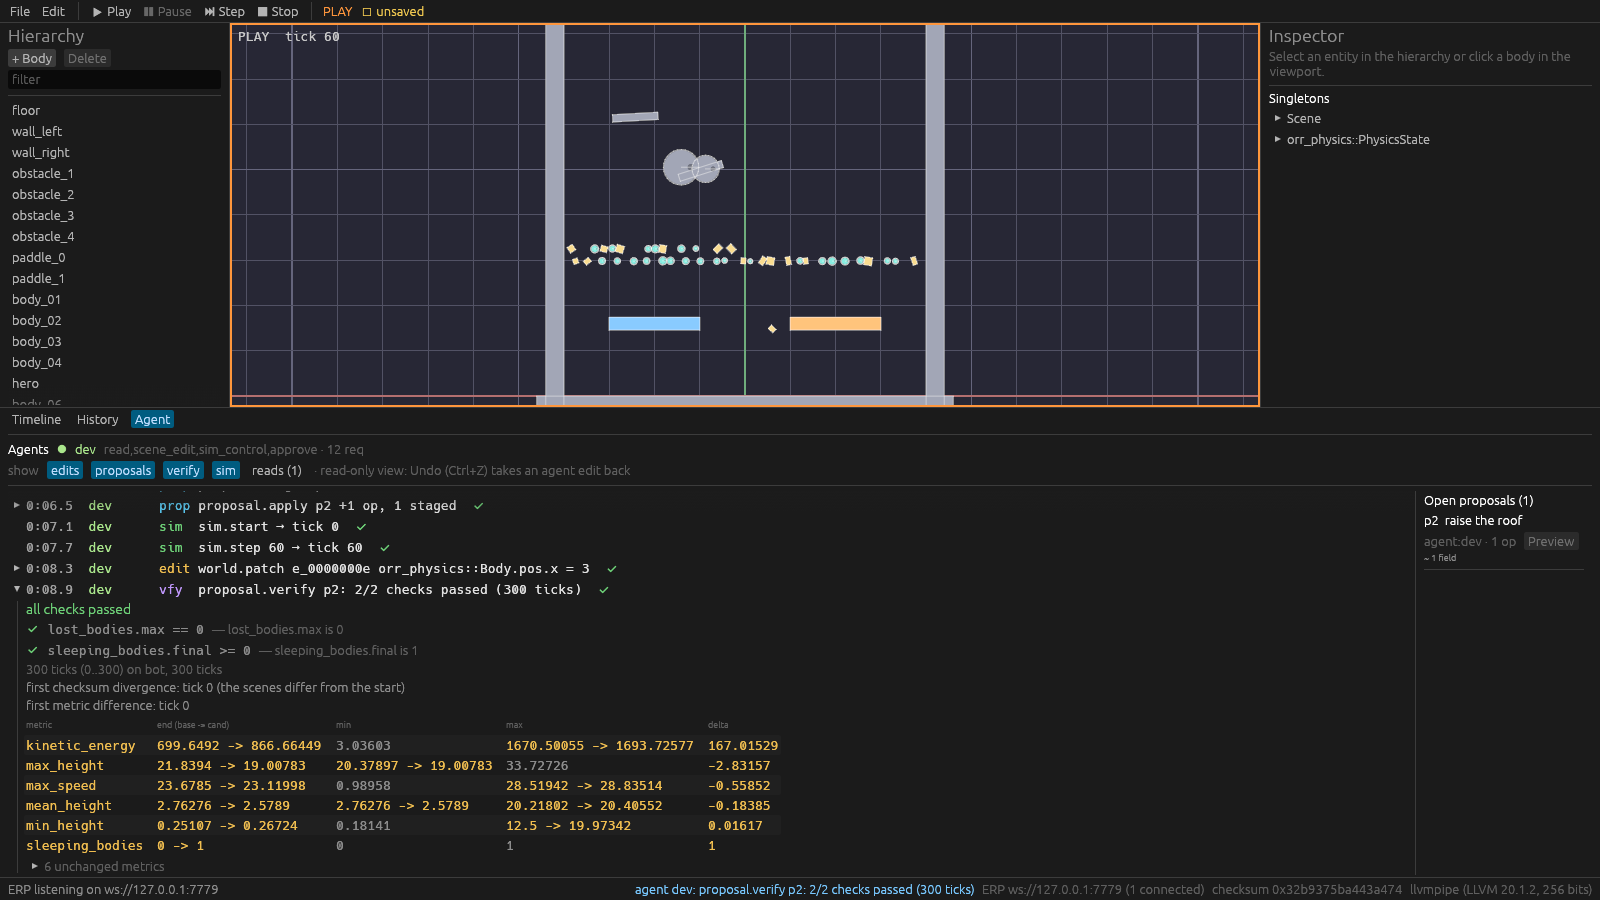
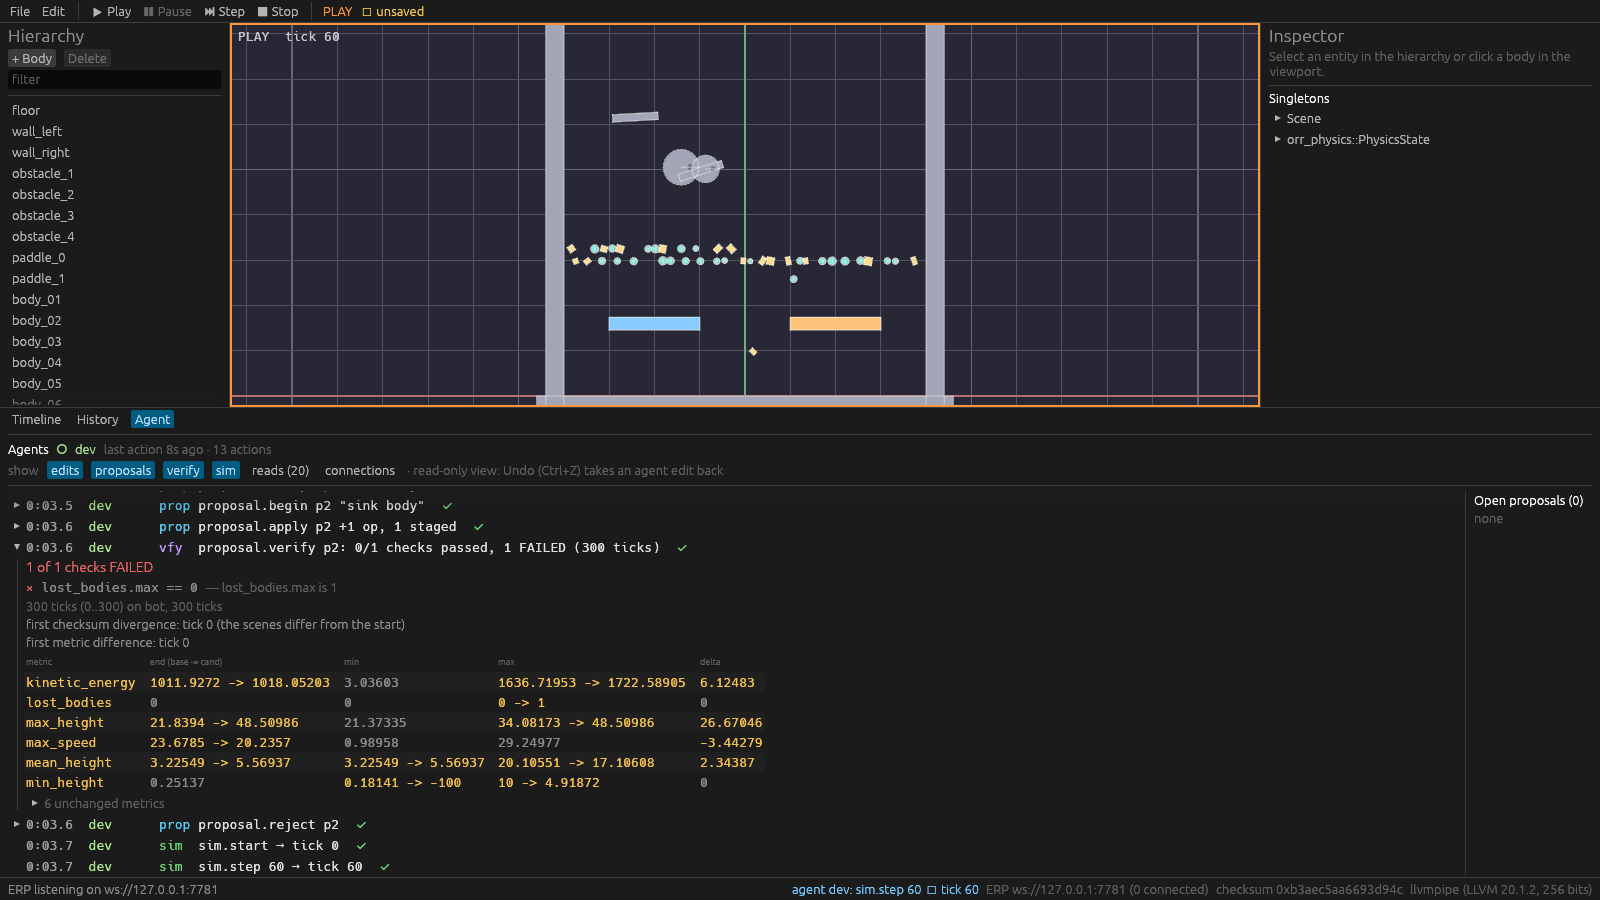
Agent feed fixes from a live CLI session; orr sim step auto-starts
Found by driving the real editor window with the `orr` CLI on Xvfb:
- A CLI agent connects once per command, so the feed filled with
  connect/disconnect rows and the header said "no agent connected"
  between commands. Connection rows are now hidden by default (a
  "connections" toggle shows them; errors always show), and the header
  also names agents with recent actions ("last action 8s ago").
- The failed-row mark and the status bar arrow were glyphs the UI font
  lacks (rendered as boxes); use U+00D7 and "->".
- The header hint gives the CLI line first, then MCP.
- `orr sim step N` starts a paused session when none runs, like the
  editor's Step button.
Tests: CLI-style agent stays visible after disconnecting; step
auto-start. Screenshot docs/img/editor-activity.png refreshed.

Claude-Session: https://claude.ai/code/session_01SrvnJdW1rvxF46axYmMF6F

diff --git a/crates/orr_editor/src/agent_ui.rs b/crates/orr_editor/src/agent_ui.rs
@@ -29,6 +29,8 @@ pub const LBL_PREVIEW: &str = "Preview";
 pub const TXT_PASSED: &str = "all checks passed";
 /// The header when no agent is connected.
 pub const TXT_NO_AGENT: &str = "no agent connected";
+/// How long an agent counts as recently active in the header (ms).
+pub const RECENT_MS: u64 = 60_000;
 /// Rows the feed draws at most (the newest ones); older ones stay in the log.
 pub const MAX_ROWS: usize = 400;
 
@@ -96,7 +98,7 @@ fn row_job(e: &ActivityEntry, font: &egui::FontId) -> LayoutJob {
     add(format!("{:<8} ", e.client), agent_color(&e.client));
     add(format!("{tag} "), color);
     add(e.summary.clone(), if e.ok { if e.read { Color32::GRAY } else { Color32::from_gray(225) } } else { RED });
-    add(if e.ok { "  \u{2714}".to_string() } else { "  \u{2718}".to_string() }, if e.ok { GREEN } else { RED });
+    add(if e.ok { "  \u{2714}".to_string() } else { "  \u{d7}".to_string() }, if e.ok { GREEN } else { RED });
     job
 }
 
@@ -130,13 +132,29 @@ impl EditorApp {
     fn agent_header(&mut self, ui: &mut Ui) {
         let agents = self.editor.agents();
         let erp = self.editor.erp_status();
-        if !agents.is_empty() {
+        // A CLI agent connects once per command: also show who acted lately.
+        let now = self.editor.erp_elapsed_ms().unwrap_or(0);
+        let recent: Vec<_> = self
+            .editor
+            .feed()
+            .recent_agents(now.saturating_sub(RECENT_MS))
+            .into_iter()
+            .filter(|r| !agents.iter().any(|a| a.name == r.name))
+            .collect();
+        if !agents.is_empty() || !recent.is_empty() {
             ui.horizontal_wrapped(|ui| {
                 ui.label(RichText::new("Agents").strong());
                 for a in &agents {
                     dot(ui, agent_color(&a.name), true);
                     ui.label(RichText::new(&a.name).strong().color(agent_color(&a.name)));
                     ui.weak(format!("{} \u{b7} {} req", a.caps, a.requests));
+                    ui.add_space(10.0);
+                }
+                for r in &recent {
+                    dot(ui, agent_color(&r.name), false);
+                    ui.label(RichText::new(&r.name).strong().color(agent_color(&r.name)));
+                    let ago = now.saturating_sub(r.last_ms) / 1000;
+                    ui.weak(format!("last action {ago}s ago \u{b7} {} action{}", r.actions, if r.actions == 1 { "" } else { "s" }));
                     ui.add_space(10.0);
                 }
             });
@@ -158,7 +176,8 @@ impl EditorApp {
         if erp.is_none() {
             mono(ui, "orr_editor --erp 127.0.0.1:7777 --erp-dev".to_string());
         }
-        mono(ui, format!("claude mcp add orrery -- orr_mcp --erp {url}      # or: ORR_ERP_URL={url} orr_mcp"));
+        mono(ui, format!("ORR_ERP={url} orr status        # CLI (see AGENTS.md)"));
+        mono(ui, format!("claude mcp add orrery -- orr_mcp --erp {url}      # or MCP"));
     }
 
     /// The filter toggles.
@@ -172,6 +191,7 @@ impl EditorApp {
             ui.toggle_value(&mut f.verify, "verify");
             ui.toggle_value(&mut f.sim, "sim");
             ui.toggle_value(&mut f.reads, format!("reads ({unseen_reads})"));
+            ui.toggle_value(&mut f.sessions, "connections");
             ui.weak("\u{b7} read-only view: Undo (Ctrl+Z) takes an agent edit back");
         });
     }
@@ -417,7 +437,7 @@ fn report_widget(ui: &mut Ui, report: &VerifyReport, outcome: Option<&CheckOutco
             ui.label(RichText::new(format!("{bad} of {} checks FAILED", outcome.results.len())).color(RED).strong().size(14.0));
         }
         for r in &outcome.results {
-            let (mark, color) = if r.passed { ("\u{2714}", GREEN) } else { ("\u{2718}", RED) };
+            let (mark, color) = if r.passed { ("\u{2714}", GREEN) } else { ("\u{d7}", RED) };
             ui.horizontal_wrapped(|ui| {
                 ui.label(RichText::new(mark).color(color));
                 ui.label(RichText::new(&r.check).monospace());

diff --git a/crates/orr_editor/src/agent.rs b/crates/orr_editor/src/agent.rs
@@ -34,17 +34,20 @@ pub struct FeedFilter {
     pub sim: bool,
     /// Read-only requests (hidden by default).
     pub reads: bool,
+    /// Connect / disconnect / auth events (hidden by default: a CLI agent
+    /// connects once per command).
+    pub sessions: bool,
 }
 
 impl Default for FeedFilter {
     fn default() -> Self {
-        Self { edits: true, proposals: true, verify: true, sim: true, reads: false }
+        Self { edits: true, proposals: true, verify: true, sim: true, reads: false, sessions: false }
     }
 }
 
 impl FeedFilter {
-    /// True if `e` passes. Session events always do, and so do errors (a
-    /// failed read is worth seeing).
+    /// True if `e` passes. Errors always do (a failed read or a refused
+    /// token is worth seeing).
     pub fn shows(&self, e: &ActivityEntry) -> bool {
         match e.kind {
             ActivityKind::Edit => self.edits,
@@ -52,9 +55,20 @@ impl FeedFilter {
             ActivityKind::Verify => self.verify,
             ActivityKind::Sim => self.sim,
             ActivityKind::Read => self.reads || !e.ok,
-            ActivityKind::Session => true,
+            ActivityKind::Session => self.sessions || !e.ok,
         }
     }
+}
+
+/// An agent seen in the feed recently (a CLI agent is connected only while
+/// a command runs, so "connected now" alone would mostly read "nobody").
+#[derive(Clone, Debug, PartialEq, Eq)]
+pub struct RecentAgent {
+    pub name: String,
+    /// Server time of its newest non-read, non-session entry.
+    pub last_ms: u64,
+    /// Its non-read, non-session entries in the feed.
+    pub actions: usize,
 }
 
 /// The activity feed of the window (copied from the ERP server's log).
@@ -73,6 +87,23 @@ pub struct Feed {
 }
 
 impl Feed {
+    /// Agents with actions (not reads or connects) at or after `since_ms`
+    /// server time, newest first.
+    pub fn recent_agents(&self, since_ms: u64) -> Vec<RecentAgent> {
+        let mut out: Vec<RecentAgent> = Vec::new();
+        for e in self.entries.iter().filter(|e| !e.read && e.kind != ActivityKind::Session && e.at_ms >= since_ms) {
+            match out.iter_mut().find(|a| a.name == e.client) {
+                Some(a) => {
+                    a.last_ms = a.last_ms.max(e.at_ms);
+                    a.actions += 1;
+                }
+                None => out.push(RecentAgent { name: e.client.clone(), last_ms: e.at_ms, actions: 1 }),
+            }
+        }
+        out.sort_by(|a, b| b.last_ms.cmp(&a.last_ms).then_with(|| a.name.cmp(&b.name)));
+        out
+    }
+
     /// Adds entries from the server (in `seq` order).
     pub(crate) fn push(&mut self, list: Vec<ActivityEntry>) {
         for e in list {
@@ -81,7 +112,8 @@ impl Feed {
                 self.touched.extend(e.entities.iter().cloned());
             }
             if !e.read && e.kind != ActivityKind::Session {
-                self.last_action = Some(format!("agent {}: {}", e.client, e.summary));
+                // The status bar font has no arrow glyph.
+                self.last_action = Some(format!("agent {}: {}", e.client, e.summary.replace('\u{2192}', "->")));
             }
             if self.entries.len() >= FEED_LIMIT {
                 self.entries.pop_front();

diff --git a/crates/orr_editor/tests/agent_ui.rs b/crates/orr_editor/tests/agent_ui.rs
@@ -320,7 +320,7 @@ fn a_failed_request_is_shown_with_its_error() {
     assert!(bad.is_err());
     open_agent_tab(&mut h);
     assert!(shows(&h, "world.patch e_deadbeef"));
-    assert!(shows(&h, "\u{2718}"));
+    assert!(shows(&h, "\u{d7}"));
     expand(&mut h, "world.patch e_deadbeef");
     assert!(shows(&h, "error: "));
 }
@@ -341,4 +341,31 @@ fn staged_proposals_can_be_previewed_and_nothing_can_approve_them() {
     h.run_steps(2);
     assert!(h.state().editor.previewing().is_some());
     assert!(h.query_by_label("Accept").is_none() && h.query_by_label("Reject").is_none() && h.query_by_label("Verify").is_none());
+}
+
+/// A CLI agent connects once per command: after it leaves, the header still
+/// names it (last action), and its connect/disconnect rows stay hidden
+/// unless "connections" is switched on.
+#[test]
+fn a_cli_style_agent_stays_visible_after_it_disconnects() {
+    let (mut h, agent) = with_agent();
+    let g = body_guid(&h, "body_05");
+    agent.call(&mut h, "world.patch", json!({"entity": g, "component": BODY, "path": "pos.x", "value": 1})).unwrap();
+    drop(agent);
+    for _ in 0..200 {
+        h.step();
+        if h.state().editor.agents().is_empty() {
+            break;
+        }
+        thread::sleep(Duration::from_millis(5));
+    }
+    open_agent_tab(&mut h);
+    h.run_steps(2);
+    assert!(!shows(&h, TXT_NO_AGENT), "a recently active agent is not 'no agent'");
+    assert!(shows(&h, "last action"));
+    assert!(shows(&h, "world.patch"));
+    assert!(!shows(&h, "disconnected"), "connection rows are hidden by default");
+    h.get_by_label("connections").click();
+    h.run_steps(2);
+    assert!(shows(&h, "disconnected"));
 }

diff --git a/crates/orr_cli/tests/cli.rs b/crates/orr_cli/tests/cli.rs
@@ -541,3 +541,16 @@ fn secrets_are_never_printed() {
     // The activity feed knows the client name, not the token.
     assert!(!host.orr(&["activity", "--reads", "-n", "500"]).all().contains(secret));
 }
+
+/// `orr sim step` without `sim start` starts a paused session first, like
+/// the editor's Step button.
+#[test]
+fn sim_step_starts_a_session_when_none_runs() {
+    let host = TestHost::start();
+    let st = host.orr(&["sim", "step", "45"]);
+    assert_eq!(st.code, 0, "{}\n{}", st.out, st.err);
+    assert!(st.out.contains("tick 45"), "{}", st.out);
+    let state = host.orr(&["sim", "state", "--json"]).json();
+    assert_eq!(state["mode"], "play");
+    assert_eq!(state["head_tick"], 45);
+}

diff --git a/crates/orr_cli/src/cmds.rs b/crates/orr_cli/src/cmds.rs
@@ -752,6 +752,11 @@ fn sim(ctx: &mut Ctx, args: &[String]) -> Result<(), CliErr> {
         }
         "step" => {
             let n = if arg.is_some() { num("a tick count")? } else { 1 };
+            // Like the editor's Step button: start a (paused) session first
+            // when none runs, so `orr sim step 60` just works.
+            if ctx.call("sim.state", json!({}))?["mode"] != "play" {
+                ctx.call("sim.start", json!({}))?;
+            }
             ctx.tool("sim_run", json!({"action": "step", "n": n}))?
         }
         "seek" => ctx.tool("sim_run", json!({"action": "seek", "tick": num("a tick")?}))?,

diff --git a/crates/orr_cli/src/help.rs b/crates/orr_cli/src/help.rs
@@ -187,7 +187,7 @@ Examples:
         "orr sim start [--players N] | stop | play | pause | step [N] | seek <tick> | speed <x> | state
 
 Drives a play session (a copy of the scene; the scene document is untouched).
-  start   begin paused     step N   run N ticks now (default 1)   seek T   go to a recorded tick
+  start   begin paused     step N   run N ticks now (default 1; starts a paused session if none)   seek T   go to a recorded tick
   play / pause   run by the wall clock or not      speed X   wall-clock speed, e.g. 0.5 or 2
   stop    end it; the recording stays for `orr verify --last-play`     state   mode, tick, checksum
 

diff --git a/crates/orr_editor/src/editor.rs b/crates/orr_editor/src/editor.rs
@@ -563,6 +563,12 @@ impl Editor {
         &mut self.feed
     }
 
+    /// Milliseconds since the embedded ERP server started (the clock of
+    /// activity entries), if it runs.
+    pub fn erp_elapsed_ms(&self) -> Option<u64> {
+        self.erp.as_ref().map(ErpServer::elapsed_ms)
+    }
+
     /// The clients connected to the embedded ERP server right now.
     pub fn agents(&self) -> Vec<ClientInfo> {
         self.erp.as_ref().map(ErpServer::clients).unwrap_or_default()
